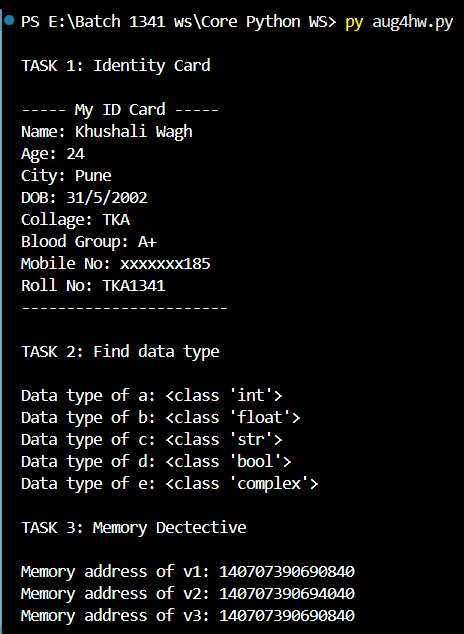
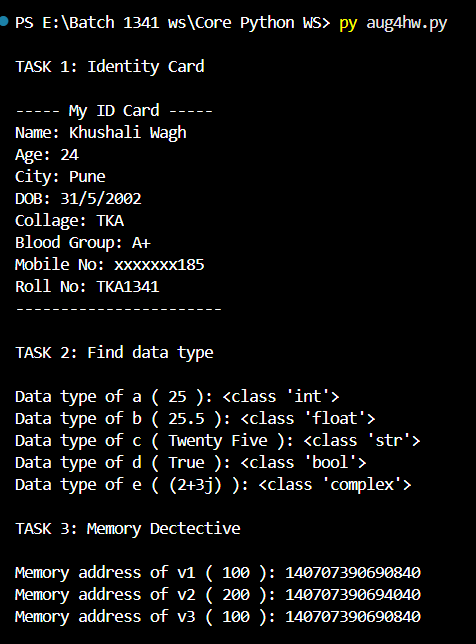
Add files via upload

Changed region(s): [[0.0, 0.0, 0.9957, 1.0], [0.7845, 0.6593, 0.875, 0.6893], [0.3621, 0.4795, 0.4526, 0.5095]]

diff --git a/Core Python WS/aug4hw.py b/Core Python WS/aug4hw.py
@@ -32,11 +32,11 @@ e=2+3j
 
 print("TASK 2: Find data type")
 print()
-print("Data type of a:",type(a))
-print("Data type of b:",type(b))
-print("Data type of c:",type(c))
-print("Data type of d:",type(d))
-print("Data type of e:",type(e))
+print("Data type of a (",a,"):",type(a))
+print("Data type of b (",b,"):",type(b))
+print("Data type of c (",c,"):",type(c))
+print("Data type of d (",d,"):",type(d))
+print("Data type of e (",e,"):",type(e))
 print()
 
 # Task 3: Memory Dectective
@@ -46,7 +46,7 @@ v3=100
 
 print("TASK 3: Memory Dectective")
 print()
-print("Memory address of v1:",id(v1))
-print("Memory address of v2:",id(v2))
-print("Memory address of v3:",id(v3))
+print("Memory address of v1 (",v1,"):",id(v1))
+print("Memory address of v2 (",v2,"):",id(v2))
+print("Memory address of v3 (",v3,"):",id(v3))
 print()
